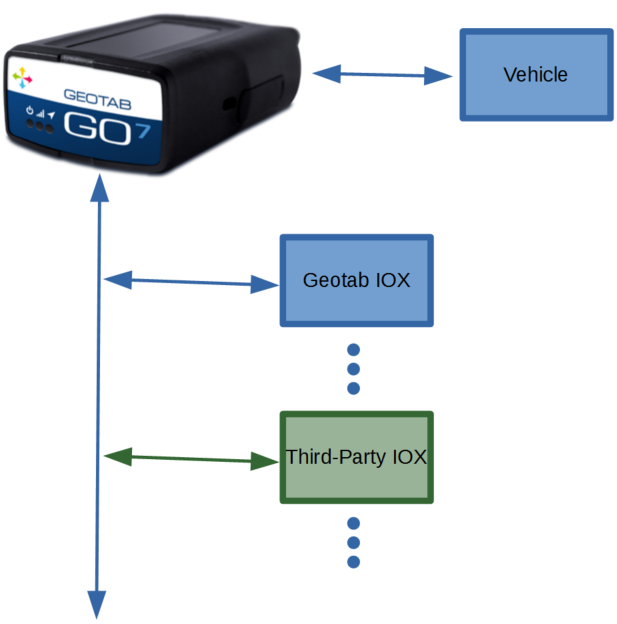
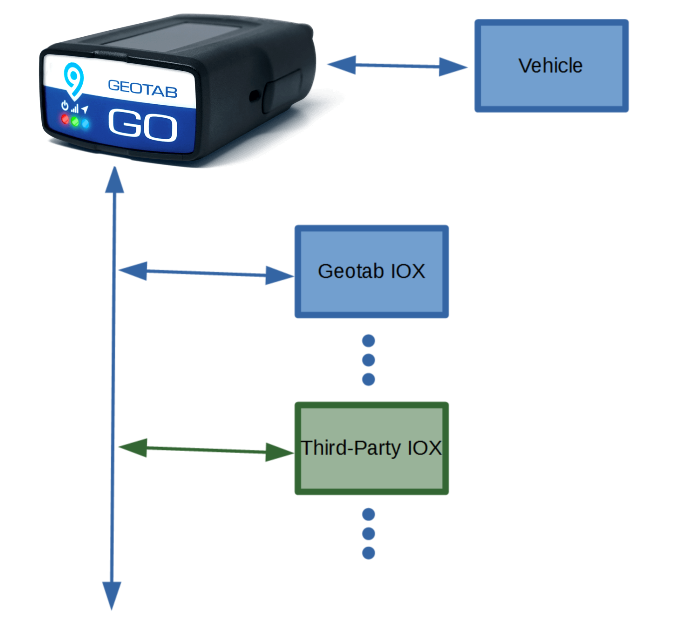
Hardware design guide improvements as outlined in SOLENG-1062

Changed region(s): [[0.0, 0.0, 1.0, 1.0]]

diff --git a/src/hardware/developing-an-iox/hardware-design-guide.md b/src/hardware/developing-an-iox/hardware-design-guide.md
@@ -1,32 +1,32 @@
 ---
 layout: page
 permalink: /hardware/developing-an-iox/hardware-design-guide/
-title: GO7 IOX Add-On Hardware Design Guide
+title: IOX Add-On Hardware Design Guide
 ---
 
 ## System Introduction
 
-GO7 is a small yet extremely powerful telematics measurement device. It offers Geotab IOX® expandability for hardware Add-Ons, which could be provided by Geotab or a third party.
+The GO Device is a small yet extremely powerful telematics measurement device. It offers Geotab IOX® expandability for hardware Add-Ons, which could be provided by Geotab or a third party.
 
-This hardware design guide is suggested reading for any third-party manufacturer who wants to design and build devices that integrate with the GO7. For more information on the IOX communication protocols, see the IOX Protocol document.
+This hardware design guide is suggested reading for any third-party manufacturer who wants to design and build devices that integrate with the GO Device. For more information on the IOX communication protocols, see the IOX Protocol document.
 
  ![]({{site.baseurl}}/hardware/developing-an-iox/hardware-design-guide_0.png)
 
 ## Hardware Structure
 
-The third-party device can get 12 V/24 V power from the GO7, communicate with the GO7 through the CAN bus, and perform its specific service for end customers.
+The third-party device can get 12 V/24 V power from the GO Device, communicate with the GO Device through the CAN bus, and perform its specific service for end customers.
 
-The GO7 provides a mini-B USB receptacle for connecting IOXs and third-party devices. This USB receptacle does not carry USB signals or power, but does provide the CAN bus and power from the vehicle. Two small plastic guards are placed around this receptacle to prevent misinsertion of a real USB plug. The corresponding connector on an IOX or a third-party device should be a mini-B USB plug.
+The GO Device provides a mini-B USB receptacle for connecting IOXs and third-party devices. This USB receptacle does not carry USB signals or power, but does provide the CAN bus and power from the vehicle. Two small plastic guards are placed around this receptacle to prevent misinsertion of a real USB plug. The corresponding connector on an IOX or a third-party device should be a mini-B USB plug.
 
  ![]({{site.baseurl}}/hardware/developing-an-iox/hardware-design-guide_1.png)
 
-Multiple IOXs can be connected to GO7 through a daisy chain configuration. The IOX device itself has a mini-B USB receptacle that can provide CAN bus and power from the vehicle to the next device in the chain.
+Multiple IOXs can be connected to the GO Device through a daisy chain configuration. The IOX device itself has a mini-B USB receptacle that can provide CAN bus and power from the vehicle to the next device in the chain.
 
 A mini-B USB receptacle needs to be added to a third-party device if this third-party device is not meant to be the last device in a daisy chain or if more than one third-party device will be used in the chain.
 
 ### Mini-B USB Plug Input
 
-The diagram and table below provide pin numbering and definitions.
+The diagram and table below provides pin numbering and definitions.
 
  ![]({{site.baseurl}}/hardware/developing-an-iox/hardware-design-guide_2.png)
 
@@ -40,15 +40,15 @@ The diagram and table below provide pin numbering and definitions.
 
 ## Power Design
 
-The GO7 provides overvoltage protection, undervoltage protection, and overcurrent protection for the battery power supply to the IOX interface.
+The GO Device provides overvoltage protection, undervoltage protection, and overcurrent protection for the battery power supply to the IOX interface.
 
 The third-party device must work properly with a power input voltage range between 6 V and 33 V.
 
-A current of up to 3 A could be supplied from the GO7 to be shared by all the IOX devices in the daisy chain. It is suggested that the current consumption be limited to 2.5 A for one third-party device if the device is the only one connected to the GO7. The maximum current should be calculated during hardware design if more than one devices is intended to be in the daisy chain. The GO7 will cut off power if the current exceeds 3 A for more than 18.6 ms (minimum).
+A current of up to 3 A could be supplied from the GO Device to be shared by all the IOX devices in the daisy chain. It is suggested that the current consumption be limited to 2.5 A for one third-party device if the device is the only one connected to the GO Device. The maximum current should be calculated during hardware design if more than one devices is intended to be in the daisy chain. The GO Device will cut off power if the current exceeds 3 A for more than 18.6 ms (minimum).
 
 Reverse current to the power line must be prevented, for which a diode on the power input would be sufficient.
 
-The third-party device must enter Sleep Mode when notified by the GO7 or when it fails to communicate with the GO7 after a reset. The current of the device in Sleep Mode should not exceed 2 mA at 12 V. The prefered Sleep Mode current is below 0.4 mA.
+The third-party device must enter Sleep Mode when notified by the GO Device or when it fails to communicate with the GO Device after a reset. The current of the device in Sleep Mode should not exceed 2 mA at 12 V. The prefered Sleep Mode current is below 0.4 mA.
 
 ## CAN Bus Communication
 
